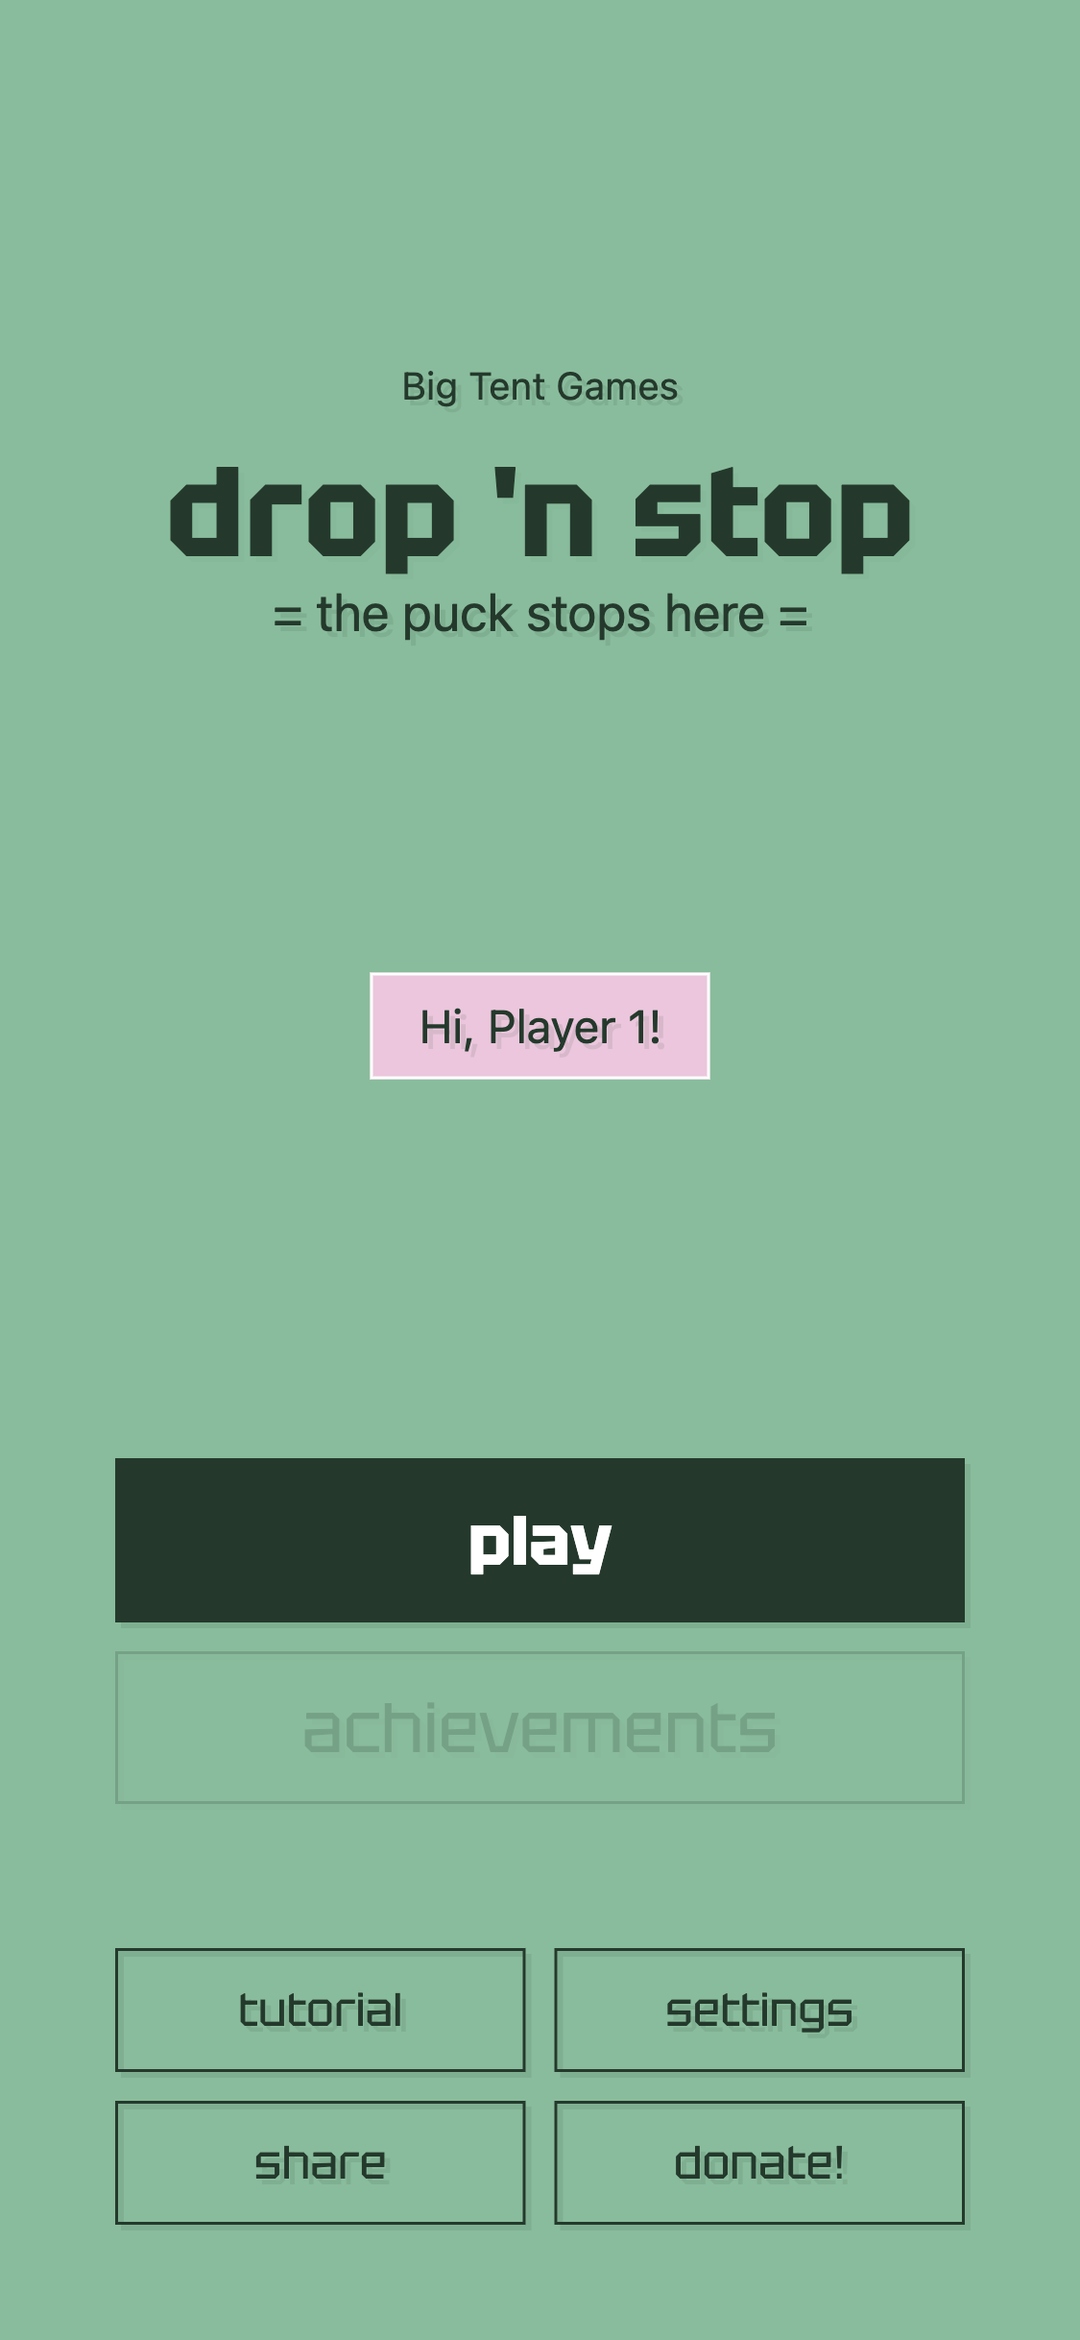
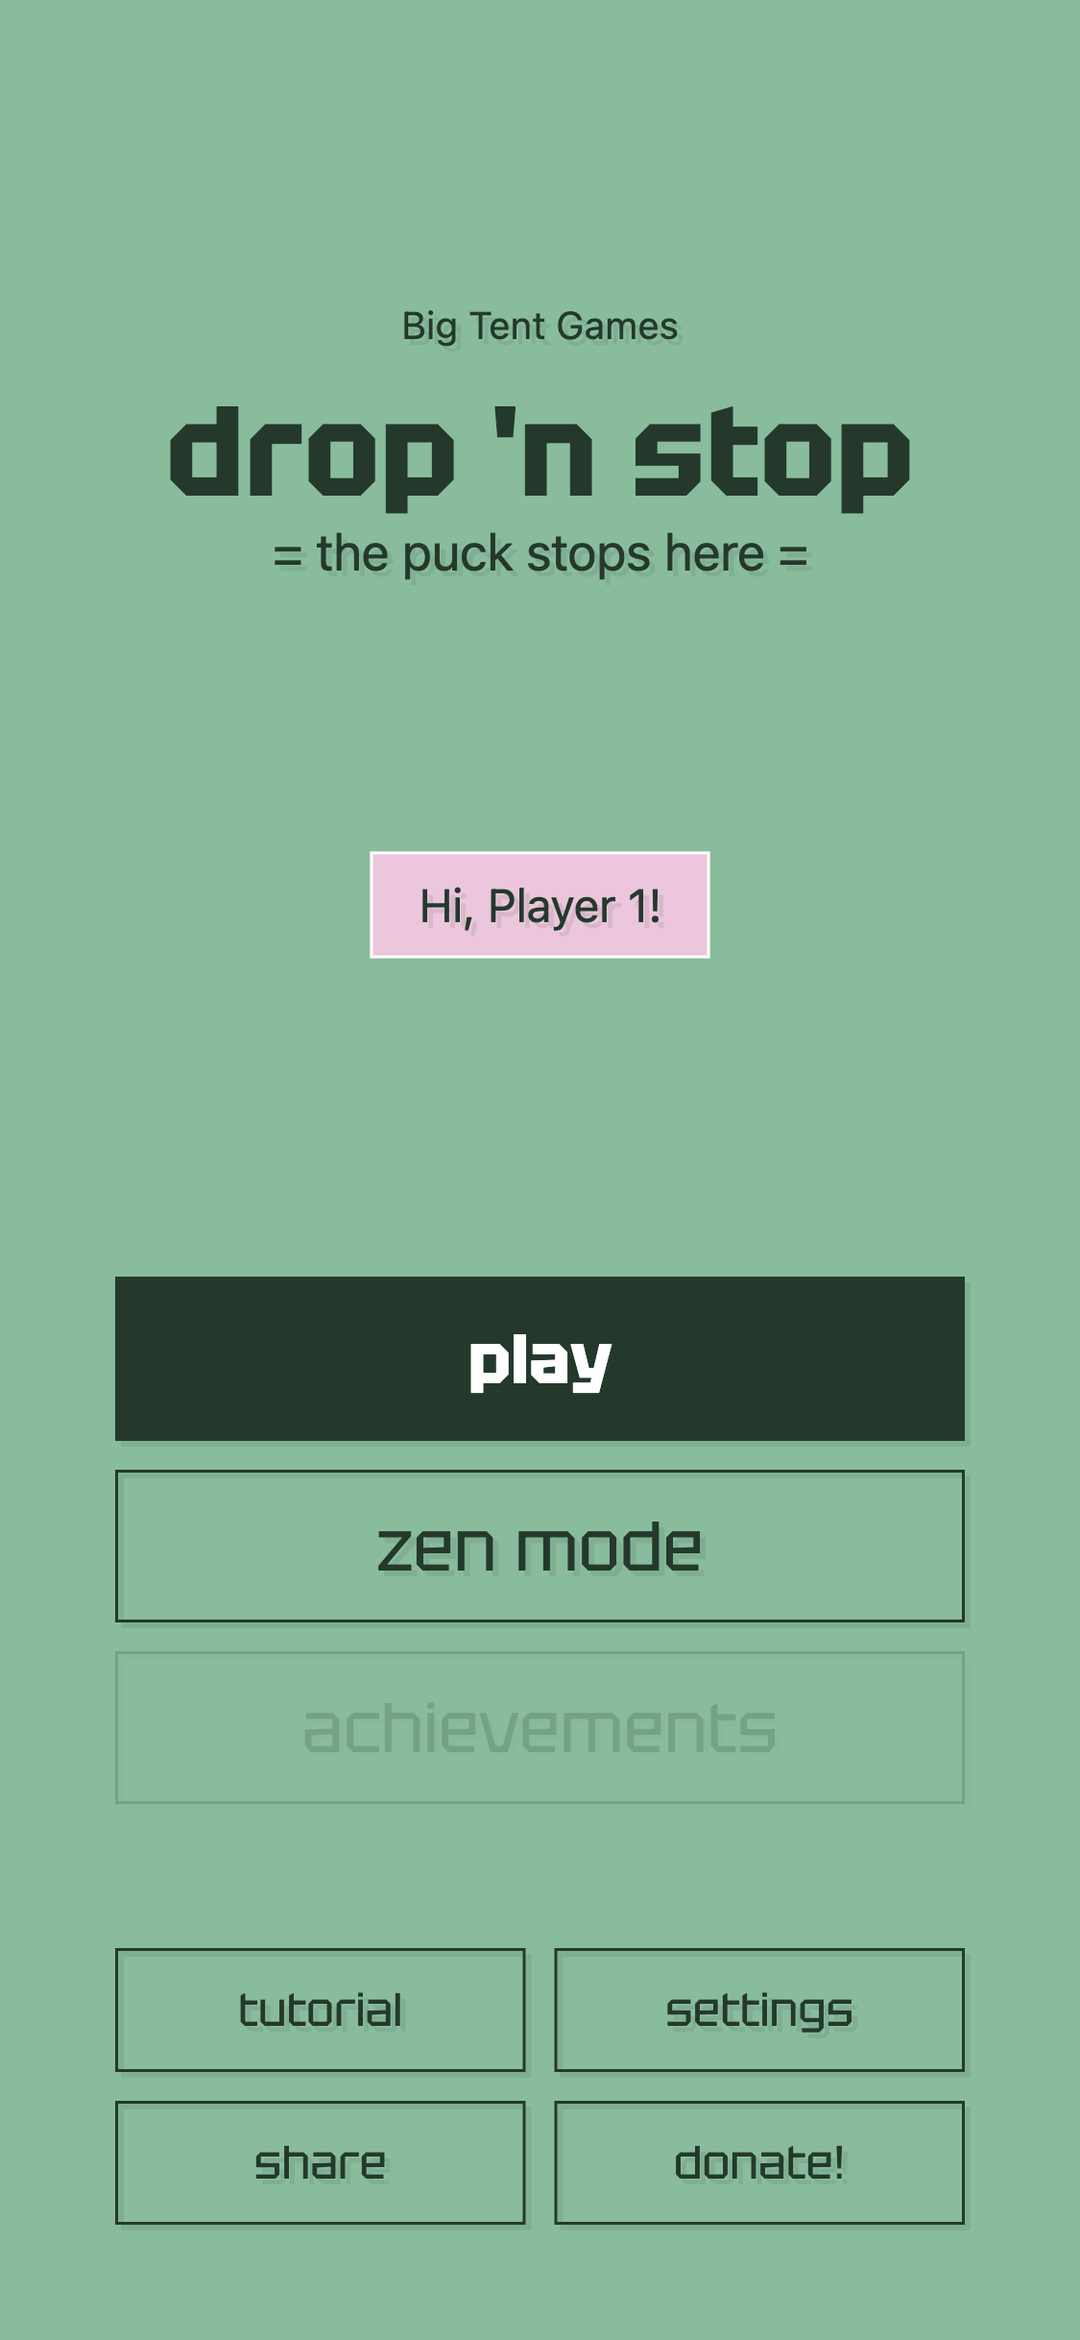
new drop n stop screenshots

Changed region(s): [[0.0933, 0.5304, 0.9022, 0.7176], [0.1556, 0.1248, 0.84, 0.2808], [0.3422, 0.3432, 0.6844, 0.468]]

diff --git a/models/PageObject.min.js b/models/PageObject.min.js
@@ -1,1 +1,1 @@
-class PageObject{constructor(e){this.name=null==e.name?"name":e.name,this.description=null==e.description?"description":e.description,this.price=null==e.price?0:e.price,this.priceText=void 0===e.priceText?"Free":e.priceText,this.googleplayurl=null==e.googleplayurl?"":e.googleplayurl,this.appleappstoreurl=null==e.appleappstoreurl?"":e.appleappstoreurl,this.msappstore=null==e.msappstore?"":e.msappstore,this.about=null==e.about?"":e.about,this.aboutExtra=null==e.aboutExtra?"":e.aboutExtra,this.showMore=void 0!==e.showMore&&e.showMore,this.video=void 0===e.video?"":e.video,this.versionHistory=null==e.versionHistory?"":e.versionHistory,this.version=null==e.version?"":e.version,this.path=null==e.path?"path":e.path,this.url=null==e.url?"url":e.url,this.iconUrl=void 0===e.iconUrl?"./images/icon512.png":e.iconUrl,this.isSelected=null!=e.isSelected&&e.isSelected,this.showInNav=null==e.showInNav||e.showInNav,this.showAsGame=null==e.showAsGame||e.showAsGame,this.backgroundColor=null==e.backgroundColor?"":e.backgroundColor,this.contentBackgroundColor=null==e.contentBackgroundColor?"rgba(250,250,250,.9)":e.contentBackgroundColor,this.useBanner=void 0===e.useBanner||e.useBanner,this.bannerText=void 0===e.bannerText?"beta":e.bannerText,this.bannerType=void 0===e.bannerType?"beta":e.bannerType,this.features=void 0===e.features?[]:e.features,this.screenshots=void 0===e.screenshots?[]:e.screenshots,this.isMobileFirst=void 0===e.isMobileFirst||e.isMobileFirst,this.communities=void 0===e.communities?[]:e.communities,this.quotes=void 0===e.quotes?[]:e.quotes,this.isPWA=void 0===e.isPWA||e.isPWA}}var Pages=[new PageObject({name:"Home",description:"Home page.",path:"home",url:".",showAsGame:!1,useBanner:!1}),new PageObject({name:"Privacy Policy",description:"Privacy Policy page.",path:"privacy",url:".",showAsGame:!1,useBanner:!1,showInNav:!1,backgroundColor:"hsl(var(--bannerHS), 25%)"}),new PageObject({name:"Facets",priceText:"free",bannerText:"free",bannerType:"free",isPWA:!1,description:"A game of words and wits!",about:'<p>If you\'ve played "Connections," "CodeNames," or "So Clover," you\'ll be right at home with Facets! This quick online game challenges you to create or guess word puzzles that can bring you and your friends closer to each other.</p>',aboutExtra:["<h2>About</h2>",'<p>The challenge of "Facets" is to connect different words that may or may not be easily connected. Players take turns creating and guessing each other\'s puzzles over social media, text, messages, or other chat apps.</p>','<p>Choose words in different languages (English, Spanish, German, French, Arabic, Chinese (simplified), and Japanese so far) from a growing catalog of word categories like "Civilization," "Entertainment," "Science," and "Seasons." Each category provides a unique window into how you and your friends think or don\'t think alike!</p>',"<ul><li>When the gem is a sapphire, you are creating a puzzle.</li><li>When the gem is an emerald, you are guessing a puzzle a friend sent you.</li><li>When the gem is a ruby, you are reviewing a friend's guess.</li></ul>","<p>Because the game is entirely URL based, no other information is stored on a server or in the cloud. URL based turns also means you can revisit any guess or challenge any time, as long as you have the original message your friend sent you."],path:"facets",url:"https://facets.bigtentgames.com/open",iconUrl:"images/facets/icon512-btg.svg",features:["Word play","Low stakes","Fast paced","Turn based","Casual game play","Brain training"],screenshots:["1.png","2.png","3.png","4.png","5.png","6.png"],backgroundColor:"rgb(46, 106, 149)",communities:[{service:"Discord",name:"Big Tent Games Server",url:"https://discord.gg/sJ3vG3RHZd",links:[{name:"Facets - General",url:"https://discord.com/channels/1148025462598139934/1339449000633569292"},{name:"Facets - Feedback",url:"https://discord.com/channels/1148025462598139934/1339449108901007462"},{name:"Facets - Bug Reports",url:"https://discord.com/channels/1148025462598139934/1339449140228390992"}]}]}),new PageObject({name:"Like Me?",description:"A game of matching likenesses",path:"likeme",url:"https://likeme.games",iconUrl:"images/likeme/icon512-btg.svg",features:["Brain training","Casual gameplay","Competitive gameplay","Alternate patterns","Color themes","Dark mode","Cat mode!","Score sharing","High scores"],about:'<p>Reminiscent of the card game "Set," the object of this fast-paced, casual mobile game is to observe the "Me" piece and then select all other pieces on the board that share <b>at least 2</b> of the following 3 attributes: color, shape, and pattern. There are 4 unique games modes for all types of players!</p>',aboutExtra:["<h2>Ranks</h2>",'<p>There are 7 ranks that you can unlock as you improve over time. Each rank increases the number of levels per game. In order to unlock the next higher rank, you have to clear 3 perfect levels at the current rank. Are you a "Super Selector"?<p>',"<h2>Game Modes</h2>","<p><b>Basic Mode</b><br />This is the default mode. Your game starts with a one minute countdown. Clear as many levels as possible. Getting a level right on your first guess adds 3 seconds to the countdown. At first, players typically only clear a few levels per game. Eventually, players start clearing 100s of levels per game!</p>","<p><b>Daily Challenge</b><br />Compete with your friends with daily, pre-generated levels. The number of levels in your daily challenge is dependant on your current rank.<p>","<p><b>Zen Mode</b><br />No timer and no stress. Think of this as a flow enabling, fidget-spinning brain trainer.</p>"],backgroundColor:"hsla(187.2, 42.74%, 45.88%, 1)",screenshots:["2.png","3.png","4.png","5.png","6.png","7.png"],video:{url:"video.mp4",thumbnail:"1.png"},priceText:"free",bannerText:"free",bannerType:"free",quotes:[{statement:"This has all the speed of a game like Piano Tiles mixed with some tricksy pattern matching logic. Very fun!",attribution:"godswearhats",rating:5},{statement:"Love it! I thought it was going to be simple, but it is deceptively challenging!",attribution:"fg6jgddgue",rating:5},{statement:"Endless fun! This game is so hard to put down. I love pattern matching!",attribution:"MsSparkyCat",rating:5},{statement:"That was fun! Nice lightweight game but puts your brain to work!",attribution:"Shon D.",rating:5},{statement:"A great matching game for all!",attribution:"RayaL08",rating:5},{statement:"Simple, elegant, and FUN!",attribution:"TheRealJunipurr",rating:5},{statement:"Me Like! What a fun and elegant game!",attribution:"domosquawk",rating:5},{statement:"Fun game! The more I play it, the more I like it! ",attribution:"Checksov",rating:5}],communities:[{service:"Discord",name:"Big Tent Games Server",url:"https://discord.gg/sJ3vG3RHZd",links:[{name:"Likeme? - General",url:"https://discord.com/channels/1148025462598139934/1148026844562604063"},{name:"Likeme? - Scores",url:"https://discord.com/channels/1148025462598139934/1148345172304867450"},{name:"Likeme? - Feedback",url:"https://discord.com/channels/1148025462598139934/1149745093604020364"},{name:"Likeme? - Bug Reports",url:"https://discord.com/channels/1148025462598139934/1149745122624413836"}]}],version:"4.2.219"}),new PageObject({name:"Drop 'n Stop!",description:"The puck stops here",about:"Fast and fun, the object of this game is to test your reaction time. Hold the drop button and release when the puck hits the dropzone.",aboutExtra:["<h2>Game Modes</h2>","<p><b>Campaign mode</b><br /><p>In this default gameplay mode, there are 6 campaigns that you can unlock as you improve over time. Each campaigns has 6 sets, each with 5 to 10 levels (most have 10). The game starts easy, then challenges you incrementally over time. By the time you get to the final level you'll have dealt with hidden pucks, hidden dropzones, small and large pucks, speedy and slow pucks: all mixed together. How close to perfection can you get?<p>","<p><b>Zen Mode</b><br />This is a feature that is coming soon!</p>"],path:"dropnstop",url:"https://dropnstop.bigtentgames.com",iconUrl:"images/dropnstop/icon512-btg.svg",features:["Fast paced","Casual game play","Reaction training","Campaigns","Color themes"],screenshots:["1.png","2.png","3.png","4.png","5.png","6.png"],backgroundColor:"rgb(200, 100, 156)",priceText:"free",bannerText:"free",bannerType:"free"}),new PageObject({name:"CommOddities!",description:"Not everything is an easy sell",about:'If you ever played "Dope Wars" on a Palm Pilot back in the day, then you have an idea how this game plays. Basically you have 365 "days" to buy/sell for as much profit as possible. Your moral compass will be tested!',path:"commoddities",url:"https://commoddities.bigtentgames.com",iconUrl:"images/commoddities/icon512-btg.svg",screenshots:["1.png","2.png","3.png","4.png","5.png","7.png"],bannerText:"alpha",bannerType:"alpha",backgroundColor:"rgb(43, 135, 101)"}),new PageObject({name:"Path",description:"Paths are the means to an end",about:"Not ready for mobile play at all. Proof of concept at best. Play at your own risk :).",path:"path",url:"https://path.bigtentgames.com",iconUrl:"images/path/icon512-btg.svg",backgroundColor:"color(display-p3 0.3608 0.7882 0.9804)",screenshots:["1.png","2.png","3.png"],bannerText:"alpha",bannerType:"alpha",isMobileFirst:!1})];
+class PageObject{constructor(e){this.name=null==e.name?"name":e.name,this.description=null==e.description?"description":e.description,this.price=null==e.price?0:e.price,this.priceText=void 0===e.priceText?"Free":e.priceText,this.googleplayurl=null==e.googleplayurl?"":e.googleplayurl,this.appleappstoreurl=null==e.appleappstoreurl?"":e.appleappstoreurl,this.msappstore=null==e.msappstore?"":e.msappstore,this.about=null==e.about?"":e.about,this.aboutExtra=null==e.aboutExtra?"":e.aboutExtra,this.showMore=void 0!==e.showMore&&e.showMore,this.video=void 0===e.video?"":e.video,this.versionHistory=null==e.versionHistory?"":e.versionHistory,this.version=null==e.version?"":e.version,this.path=null==e.path?"path":e.path,this.url=null==e.url?"url":e.url,this.iconUrl=void 0===e.iconUrl?"./images/icon512.png":e.iconUrl,this.isSelected=null!=e.isSelected&&e.isSelected,this.showInNav=null==e.showInNav||e.showInNav,this.showAsGame=null==e.showAsGame||e.showAsGame,this.backgroundColor=null==e.backgroundColor?"":e.backgroundColor,this.contentBackgroundColor=null==e.contentBackgroundColor?"rgba(250,250,250,.9)":e.contentBackgroundColor,this.useBanner=void 0===e.useBanner||e.useBanner,this.bannerText=void 0===e.bannerText?"beta":e.bannerText,this.bannerType=void 0===e.bannerType?"beta":e.bannerType,this.features=void 0===e.features?[]:e.features,this.screenshots=void 0===e.screenshots?[]:e.screenshots,this.isMobileFirst=void 0===e.isMobileFirst||e.isMobileFirst,this.communities=void 0===e.communities?[]:e.communities,this.quotes=void 0===e.quotes?[]:e.quotes,this.isPWA=void 0===e.isPWA||e.isPWA}}var Pages=[new PageObject({name:"Home",description:"Home page.",path:"home",url:".",showAsGame:!1,useBanner:!1}),new PageObject({name:"Privacy Policy",description:"Privacy Policy page.",path:"privacy",url:".",showAsGame:!1,useBanner:!1,showInNav:!1,backgroundColor:"hsl(var(--bannerHS), 25%)"}),new PageObject({name:"Facets",priceText:"free",bannerText:"free",bannerType:"free",isPWA:!1,description:"A game of words and wits!",about:'<p>If you\'ve played "Connections," "CodeNames," or "So Clover," you\'ll be right at home with Facets! This quick online game challenges you to create or guess word puzzles that can bring you and your friends closer to each other.</p>',aboutExtra:["<h2>About</h2>",'<p>The challenge of "Facets" is to connect different words that may or may not be easily connected. Players take turns creating and guessing each other\'s puzzles over social media, text, messages, or other chat apps.</p>','<p>Choose words in different languages (English, Spanish, German, French, Arabic, Chinese (simplified), and Japanese so far) from a growing catalog of word categories like "Civilization," "Entertainment," "Science," and "Seasons." Each category provides a unique window into how you and your friends think or don\'t think alike!</p>',"<ul><li>When the gem is a sapphire, you are creating a puzzle.</li><li>When the gem is an emerald, you are guessing a puzzle a friend sent you.</li><li>When the gem is a ruby, you are reviewing a friend's guess.</li></ul>","<p>Because the game is entirely URL based, no other information is stored on a server or in the cloud. URL based turns also means you can revisit any guess or challenge any time, as long as you have the original message your friend sent you."],path:"facets",url:"https://facets.bigtentgames.com/open",iconUrl:"images/facets/icon512-btg.svg",features:["Word play","Low stakes","Fast paced","Turn based","Casual game play","Brain training"],screenshots:["1.png","2.png","3.png","4.png","5.png","6.png"],backgroundColor:"rgb(46, 106, 149)",communities:[{service:"Discord",name:"Big Tent Games Server",url:"https://discord.gg/sJ3vG3RHZd",links:[{name:"Facets - General",url:"https://discord.com/channels/1148025462598139934/1339449000633569292"},{name:"Facets - Feedback",url:"https://discord.com/channels/1148025462598139934/1339449108901007462"},{name:"Facets - Bug Reports",url:"https://discord.com/channels/1148025462598139934/1339449140228390992"}]}]}),new PageObject({name:"Like Me?",description:"A game of matching likenesses",path:"likeme",url:"https://likeme.games",iconUrl:"images/likeme/icon512-btg.svg",features:["Brain training","Casual gameplay","Competitive gameplay","Alternate patterns","Color themes","Dark mode","Cat mode!","Score sharing","High scores"],about:'<p>Reminiscent of the card game "Set," the object of this fast-paced, casual mobile game is to observe the "Me" piece and then select all other pieces on the board that share <b>at least 2</b> of the following 3 attributes: color, shape, and pattern. There are 4 unique games modes for all types of players!</p>',aboutExtra:["<h2>Ranks</h2>",'<p>There are 7 ranks that you can unlock as you improve over time. Each rank increases the number of levels per game. In order to unlock the next higher rank, you have to clear 3 perfect levels at the current rank. Are you a "Super Selector"?<p>',"<h2>Game Modes</h2>","<p><b>Basic Mode</b><br />This is the default mode. Your game starts with a one minute countdown. Clear as many levels as possible. Getting a level right on your first guess adds 3 seconds to the countdown. At first, players typically only clear a few levels per game. Eventually, players start clearing 100s of levels per game!</p>","<p><b>Daily Challenge</b><br />Compete with your friends with daily, pre-generated levels. The number of levels in your daily challenge is dependant on your current rank.<p>","<p><b>Zen Mode</b><br />No timer and no stress. Think of this as a flow enabling, fidget-spinning brain trainer.</p>"],backgroundColor:"hsla(187.2, 42.74%, 45.88%, 1)",screenshots:["2.png","3.png","4.png","5.png","6.png","7.png"],video:{url:"video.mp4",thumbnail:"1.png"},priceText:"free",bannerText:"free",bannerType:"free",quotes:[{statement:"This has all the speed of a game like Piano Tiles mixed with some tricksy pattern matching logic. Very fun!",attribution:"godswearhats",rating:5},{statement:"Love it! I thought it was going to be simple, but it is deceptively challenging!",attribution:"fg6jgddgue",rating:5},{statement:"Endless fun! This game is so hard to put down. I love pattern matching!",attribution:"MsSparkyCat",rating:5},{statement:"That was fun! Nice lightweight game but puts your brain to work!",attribution:"Shon D.",rating:5},{statement:"A great matching game for all!",attribution:"RayaL08",rating:5},{statement:"Simple, elegant, and FUN!",attribution:"TheRealJunipurr",rating:5},{statement:"Me Like! What a fun and elegant game!",attribution:"domosquawk",rating:5},{statement:"Fun game! The more I play it, the more I like it! ",attribution:"Checksov",rating:5}],communities:[{service:"Discord",name:"Big Tent Games Server",url:"https://discord.gg/sJ3vG3RHZd",links:[{name:"Likeme? - General",url:"https://discord.com/channels/1148025462598139934/1148026844562604063"},{name:"Likeme? - Scores",url:"https://discord.com/channels/1148025462598139934/1148345172304867450"},{name:"Likeme? - Feedback",url:"https://discord.com/channels/1148025462598139934/1149745093604020364"},{name:"Likeme? - Bug Reports",url:"https://discord.com/channels/1148025462598139934/1149745122624413836"}]}],version:"4.2.219"}),new PageObject({name:"Drop 'n Stop!",description:"The puck stops here",about:"Fast and fun, the object of this game is to test your reaction time. Hold the drop button and release when the puck hits the dropzone.",aboutExtra:["<h2>Game Modes</h2>","<p><b>Campaign mode</b><br /><p>In this default gameplay mode, there are 6 campaigns that you can unlock as you improve over time. Each campaigns has 6 sets, each with 5 to 10 levels (most have 10). The game starts easy, then challenges you incrementally over time. By the time you get to the final level you'll have dealt with hidden pucks, hidden dropzones, small and large pucks, speedy and slow pucks: all mixed together. How close to perfection can you get?<p>","<p><b>Zen Mode</b><br />This is a feature that is coming soon!</p>"],path:"dropnstop",url:"https://dropnstop.bigtentgames.com",iconUrl:"images/dropnstop/icon512-btg.svg",features:["Fast paced","Casual game play","Reaction training","Campaigns","Color themes"],screenshots:["1.png","2.png","3.png","4.png","5.png","6.png","7.png","8.png"],backgroundColor:"rgb(200, 100, 156)",priceText:"free",bannerText:"free",bannerType:"free"}),new PageObject({name:"CommOddities!",description:"Not everything is an easy sell",about:'If you ever played "Dope Wars" on a Palm Pilot back in the day, then you have an idea how this game plays. Basically you have 365 "days" to buy/sell for as much profit as possible. Your moral compass will be tested!',path:"commoddities",url:"https://commoddities.bigtentgames.com",iconUrl:"images/commoddities/icon512-btg.svg",screenshots:["1.png","2.png","3.png","4.png","5.png","7.png"],bannerText:"alpha",bannerType:"alpha",backgroundColor:"rgb(43, 135, 101)"}),new PageObject({name:"Path",description:"Paths are the means to an end",about:"Not ready for mobile play at all. Proof of concept at best. Play at your own risk :).",path:"path",url:"https://path.bigtentgames.com",iconUrl:"images/path/icon512-btg.svg",backgroundColor:"color(display-p3 0.3608 0.7882 0.9804)",screenshots:["1.png","2.png","3.png"],bannerText:"alpha",bannerType:"alpha",isMobileFirst:!1})];

diff --git a/models/PageObject.js b/models/PageObject.js
@@ -149,7 +149,7 @@ var Pages = [
     url: 'https://dropnstop.bigtentgames.com',
     iconUrl: 'images/dropnstop/icon512-btg.svg',
     features: ['Fast paced', 'Casual game play', 'Reaction training', 'Campaigns', 'Color themes'],
-    screenshots: ['1.png', '2.png', '3.png', '4.png', '5.png', '6.png'],
+    screenshots: ['1.png', '2.png', '3.png', '4.png', '5.png', '6.png', '7.png', '8.png'],
     backgroundColor: 'rgb(200, 100, 156)',
     priceText: 'free',
     bannerText: 'free',
